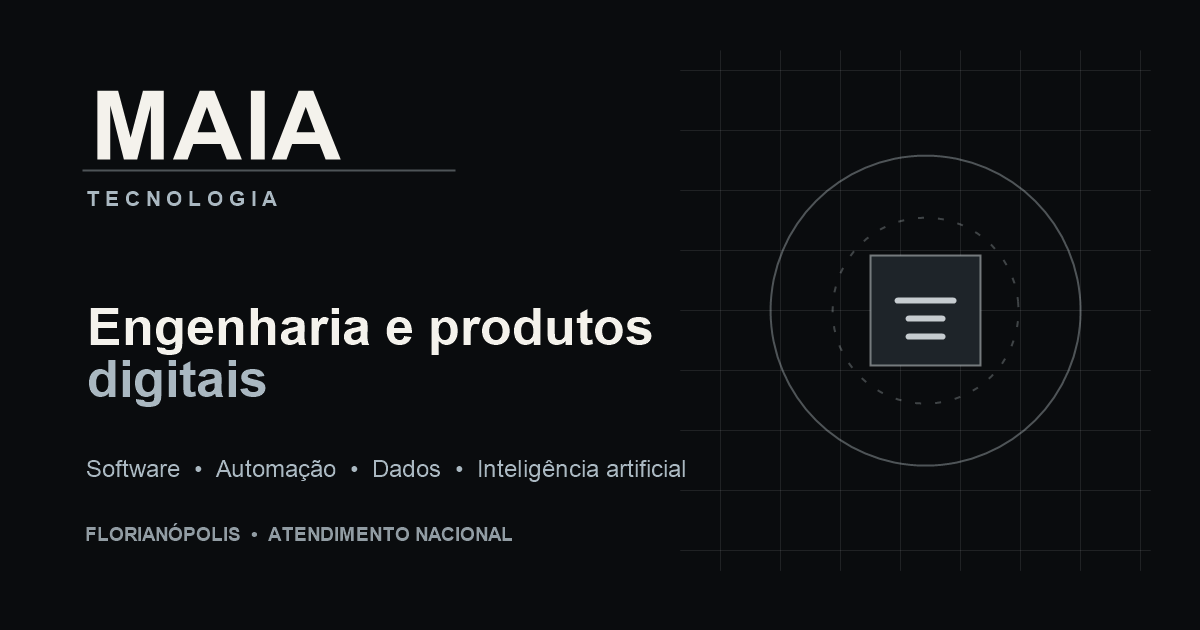
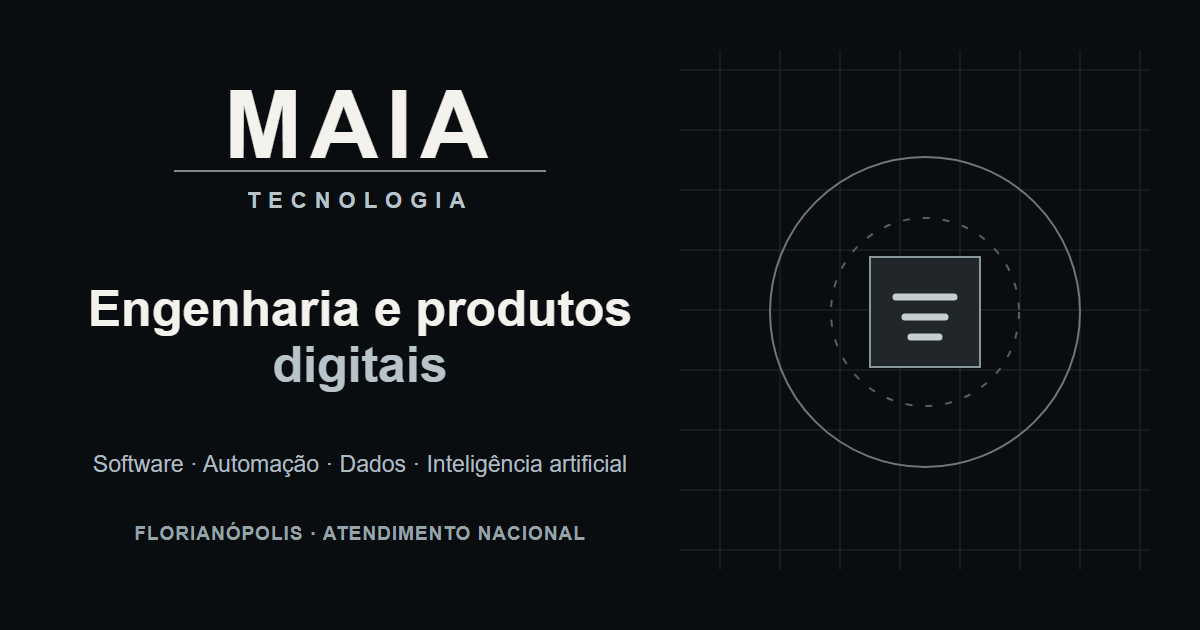
Alinha composicao da imagem de compartilhamento

diff --git a/index.html b/index.html
@@ -21,9 +21,16 @@
       content="Soluções digitais personalizadas para simplificar processos, conectar operações e impulsionar negócios."
     />
     <meta property="og:url" content="https://www.maiacyber.me/" />
-    <meta name="twitter:card" content="summary" />
+    <meta property="og:image" content="https://www.maiacyber.me/brand/maia-tecnologia-share-2026.png?v=2" />
+    <meta property="og:image:secure_url" content="https://www.maiacyber.me/brand/maia-tecnologia-share-2026.png?v=2" />
+    <meta property="og:image:type" content="image/png" />
+    <meta property="og:image:width" content="1200" />
+    <meta property="og:image:height" content="630" />
+    <meta property="og:image:alt" content="Maia Tecnologia — Engenharia e produtos digitais" />
+    <meta name="twitter:card" content="summary_large_image" />
     <meta name="twitter:title" content="Maia Tecnologia — Engenharia de Software em Florianópolis" />
     <meta name="twitter:description" content="Engenharia de software, sistemas, automação e inteligência artificial com atendimento em todo o Brasil." />
+    <meta name="twitter:image" content="https://www.maiacyber.me/brand/maia-tecnologia-share-2026.png?v=2" />
     <title>Maia Tecnologia — Engenharia de Software em Florianópolis</title>
     <script type="application/ld+json">
       {
